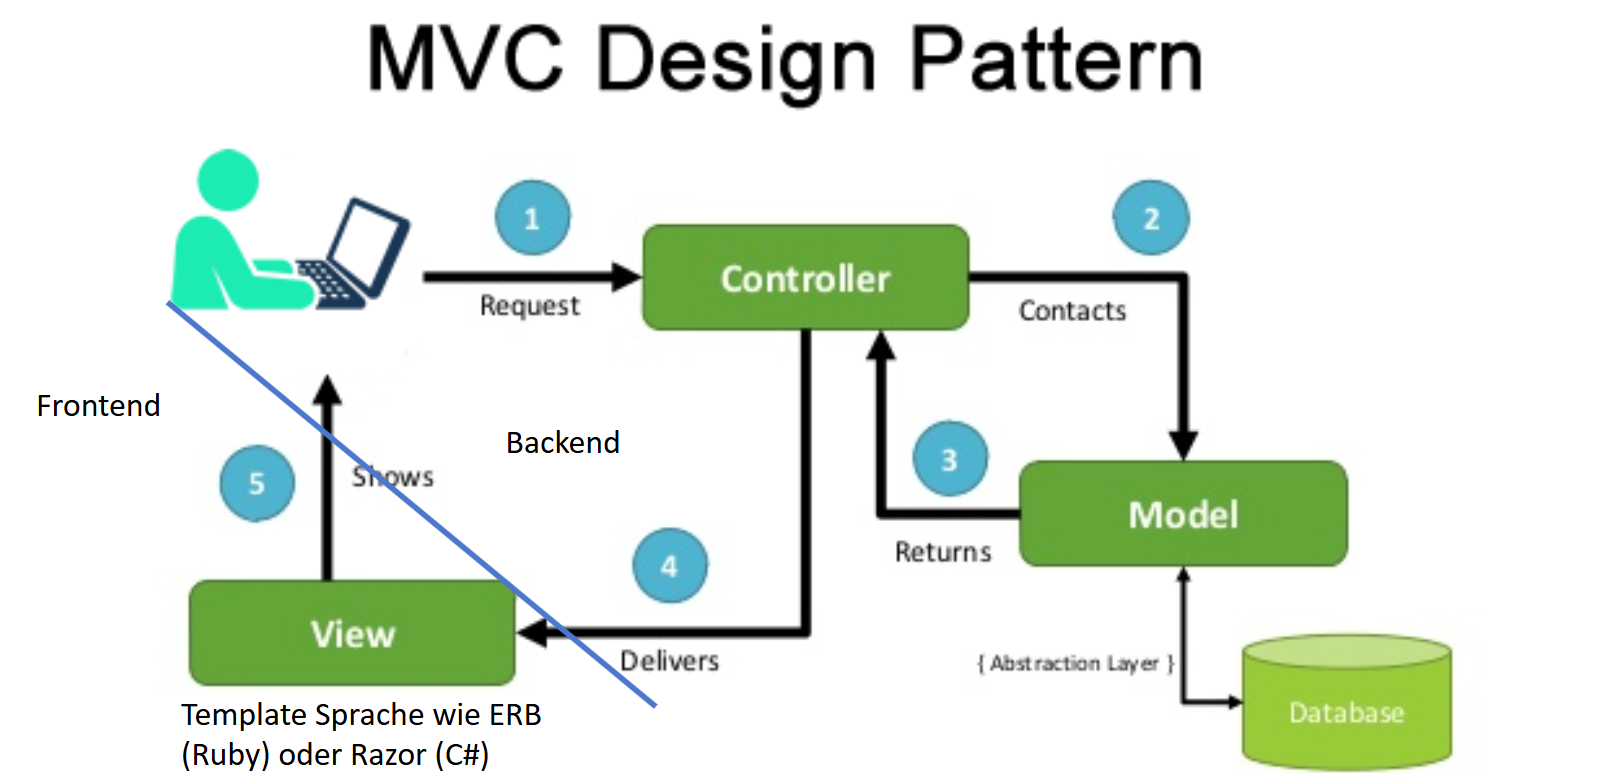
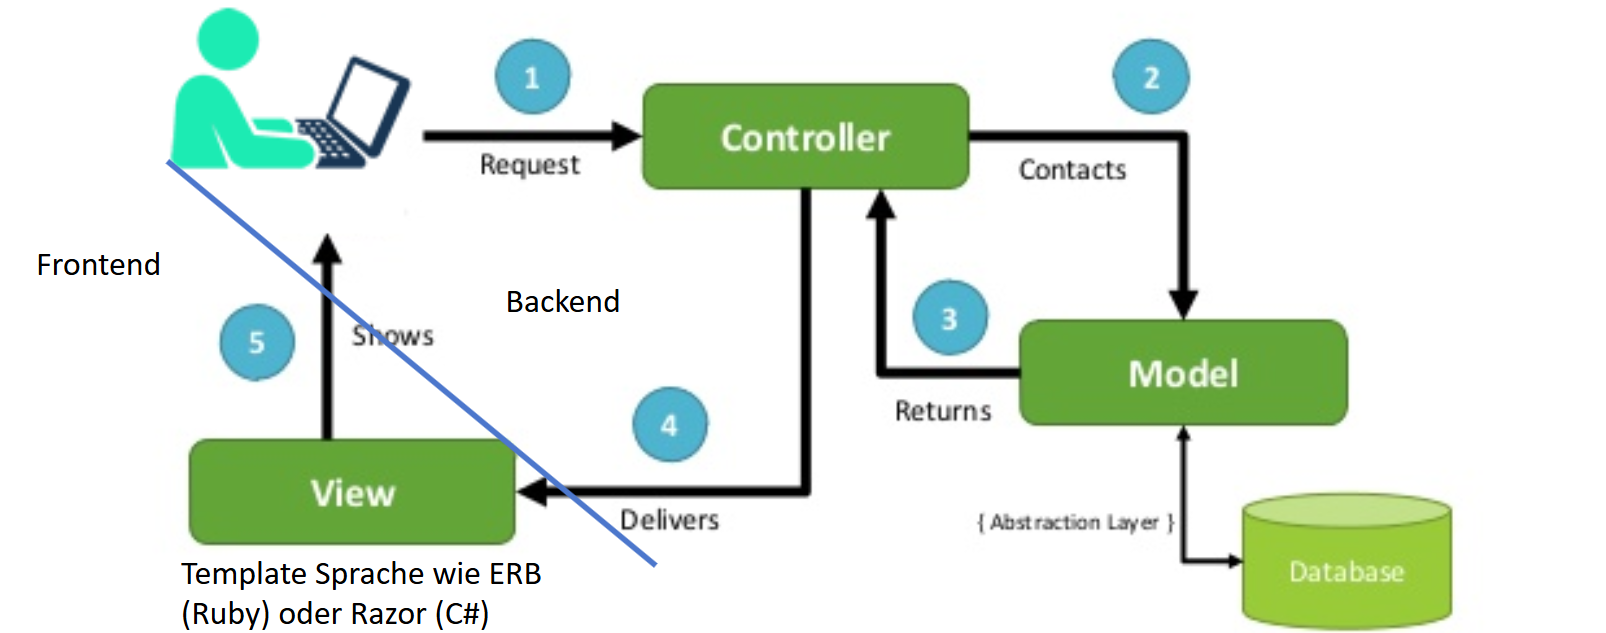
Enhance Backend.md with new sections on Business Logic and Middleware, and update MVC image for consistency

diff --git a/Backend/Backend Basics/Backend.md b/Backend/Backend Basics/Backend.md
@@ -104,12 +104,12 @@ style: |
     tr:nth-child(even) td {
         background-color: #1e293b; /* Deutlich abgesetzte Zeilen für bessere Scanbarkeit */
     }
-
 ---
 
 # Backend Basics
 
 ---
+
 # Einleitung
 
 ---
@@ -123,23 +123,51 @@ style: |
 - Model: Repräsentation der Daten
 - View: Darstellung der Daten für den Benutzer
 - Controller: Vermittler zwischen Model und View, verarbeitet Benutzereingaben; Geschäftslogik
-- Früher war View ein HTML-Template, heute ist es oft eine Single Page Application (SPA) im Frontend
+- Früher war View ein HTML-Template, heute ist es oft die REST API. Zusätzlich gibt es dann eine Single Page Application (SPA) als User Frontend.
   - zum Beispiel ASP .NET MVC, Spring MVC, Ruby on Rails
 
 ---
+
 # REST API
 
+---
 
 # Business Logic
 
+---
 
+## Einleitung
+
+- Simpel heruntergebrochen, werden die HTTP abgefangen, ruft man in den Handlern die Database auf und gibt Daten an den User zurück
+- am Anfang kann man es relativ simpel halten und verschiedene Anfragne mit if else auswerten
+- BEi höhere komplexität bracuht man Struktur - genau das implementieren Frameworks wie JavaScr Springt Bootmit OOP oder express.js mit funktionsorientiertem Programmierung
+
+---
+
+## Middleware and Request Handler Pattern/Request Handler Delegate
+
+- Middleware: Funktion, die HTTP-Anfragen abfängt, bevor sie den eigentlichen Request Handler erreichen. Sie kann Anfragen modifizieren, authentifizieren oder protokollieren.
+- Request Handler: Funktion, die die eigentliche Logik zur Verarbeitung einer HTTP-Anfrage enthält und eine Antwort zurückgibt.
+- Request Handler Delegate: Ein Konzept, bei dem Middleware und Request Handler in einer Kette organisiert sind. Jede Middleware kann entscheiden, ob sie die Anfrage weiterleitet oder eine Antwort zurückgibt.
+
+---
+
+## ![alt text ](img/Middleware.png)
+
+---
+
+## Aufgabe
+
+- einfache aufgabe mit express wo einmal die Middleware und die Request Handler getestet werden
+
+---
 
 # Databases
+
 ## Grundlagen
 
 ### Relationale Datenbanken
 
 ### Nicht-relationale Datenbanken
-
 
 ## ORM